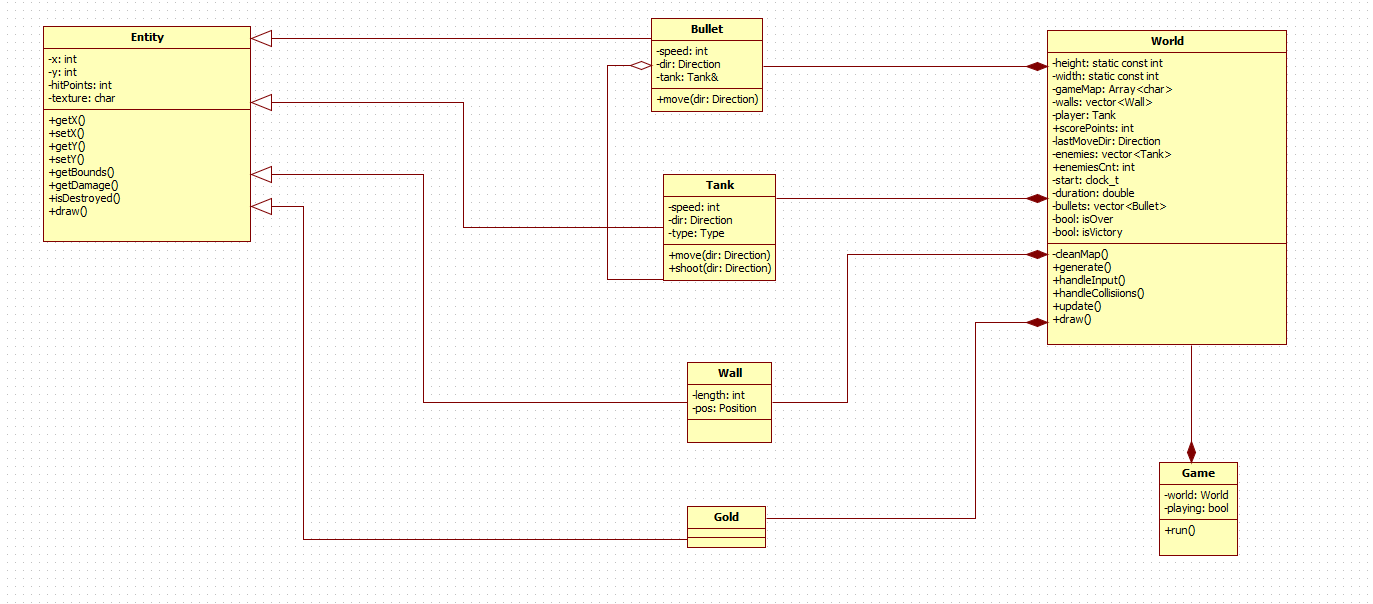
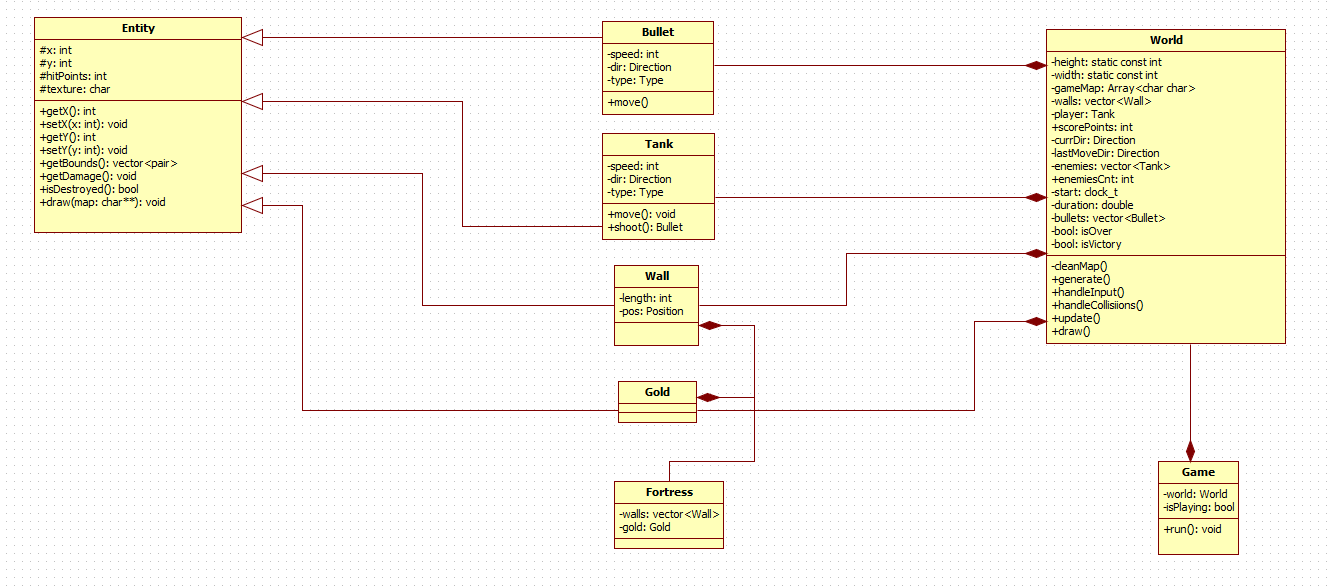
Changed diagrams + implemented entities' classes

diff --git a/src/Tank.cpp b/src/Tank.cpp
@@ -1,0 +1,45 @@
+#include "Tank.h"
+
+Tank::Tank() = default;
+
+Tank::Tank(int x, int y, int hp, char texture, int speed, Direction dir, Type type) :
+        Entity(x, y, hp, texture), m_speed(speed), m_dir(dir), m_type(type) {}
+
+void Tank::move() {
+    switch (m_dir) {
+        case Direction::UP:
+            m_y -= m_speed;
+            break;
+        case Direction::RIGHT:
+            m_x += m_speed;
+            break;
+        case Direction::DOWN:
+            m_y += m_speed;
+            break;
+        case Direction::LEFT:
+            m_x -= m_speed;
+            break;
+        case Direction::STOP:
+            break;
+    }
+}
+
+Bullet &Tank::shoot() {
+    Bullet b (m_x, m_y, BULLET_HP, BULLET_TEXTURE, BULLET_SPEED, m_dir, m_type);
+    b.move();
+    return b;
+}
+
+
+std::vector<std::pair<int, int>> Tank::getBounds() {
+    std::vector<std::pair<int, int>> bounds;
+    bounds.emplace_back(m_x, m_y);
+    return bounds;
+}
+
+void Tank::draw(char **map) {
+    map[m_y][m_x] = m_texture;
+}
+
+
+

diff --git a/src/BattleField.h b/src/BattleField.h
@@ -1,0 +1,47 @@
+#ifndef VERYCRAZYTANKS_BATTLEFIELD_H
+#define VERYCRAZYTANKS_BATTLEFIELD_H
+
+#include <vector>
+#include <ctime>
+#include "Constants.h"
+#include "Wall.h"
+#include "Tank.h"
+
+
+class BattleField {
+public:
+    BattleField();
+
+    void generate();
+    void handleInput();
+    void handleCollisiion();
+    void update();
+    void draw();
+
+private:
+    static const int m_height = MAP_HEIGHT;
+    static const int m_width = MAP_WIDTH;
+    char m_gameMap[m_height][m_width];
+
+    std::vector<Wall> m_walls;
+    Tank m_player;
+    int m_scorePoints;
+
+    Direction m_currDir;
+    Direction m_lastMoveDir;
+
+    std::vector<Tank> m_enemies;
+    int m_enemiesCnt;
+
+    clock_t m_start;
+    double m_duration;
+
+    std::vector<Bullet> m_bullets;
+    bool m_isOver;
+    bool m_isVictory;
+
+    void cleanMap();
+};
+
+
+#endif //VERYCRAZYTANKS_BATTLEFIELD_H

diff --git a/src/Bullet.cpp b/src/Bullet.cpp
@@ -1,0 +1,27 @@
+#include "Bullet.h"
+
+Bullet::Bullet() = default;
+
+Bullet::Bullet(int x, int y, int hp, char texture, int speed, Direction dir, Type type) :
+        Entity(x,y, hp, texture), m_speed(speed), m_dir(dir), m_type(type) {
+}
+
+void Bullet::move() {
+    switch (m_dir) {
+        case Direction::UP:
+            m_y -= m_speed;
+            break;
+        case Direction::RIGHT:
+            m_x += m_speed;
+            break;
+        case Direction::DOWN:
+            m_y += m_speed;
+            break;
+        case Direction::LEFT:
+            m_x -= m_speed;
+            break;
+        case Direction::STOP:
+            break;
+    }
+}
+

diff --git a/src/Entity.h b/src/Entity.h
@@ -1,0 +1,36 @@
+#ifndef VERYCRAZYTANKS_ENTITY_H
+#define VERYCRAZYTANKS_ENTITY_H
+
+
+#include <utility>
+#include <vector>
+
+class Entity {
+public:
+    Entity();
+    Entity(int x, int y, int hp, char texture);
+
+    const int &getX();
+
+    void setX(int x);
+
+    const int &getY();
+
+    void setY(int y);
+
+    virtual std::vector<std::pair<int, int>> getBounds() = 0;
+
+    void getDamage();
+
+    bool isDestroyed();
+
+    virtual void draw(char **map) = 0;
+protected:
+    int m_x;
+    int m_y;
+    int m_hitPoints;
+    char m_texture;
+};
+
+
+#endif //VERYCRAZYTANKS_ENTITY_H

diff --git a/src/Tank.h b/src/Tank.h
@@ -1,0 +1,30 @@
+#ifndef VERYCRAZYTANKS_TANK_H
+#define VERYCRAZYTANKS_TANK_H
+
+#include "Entity.h"
+#include "Constants.h"
+#include "Bullet.h"
+
+
+class Tank : public Entity {
+public:
+    Tank();
+
+    Tank(int x, int y, int hp, char texture, int speed, Direction dir, Type type);
+
+    void move();
+
+    Bullet &shoot();
+
+    std::vector<std::pair<int, int>> getBounds() override;
+
+    void draw(char **map) override;
+
+private:
+    int m_speed;
+    Direction m_dir;
+    Type m_type;
+};
+
+
+#endif //VERYCRAZYTANKS_TANK_H

diff --git a/src/Entity.cpp b/src/Entity.cpp
@@ -1,0 +1,31 @@
+#include "Entity.h"
+
+Entity::Entity() {}
+
+Entity::Entity(int x, int y, int hp, char texture) : m_x(x), m_y(y), m_hitPoints(hp), m_texture(texture){}
+
+const int &Entity::getX() {
+    return m_x;
+}
+
+void Entity::setX(int x) {
+    m_x = x;
+}
+
+const int &Entity::getY() {
+    return m_y;
+}
+
+void Entity::setY(int y) {
+    m_y = y;
+}
+
+void Entity::getDamage() {
+    m_hitPoints--;
+}
+
+bool Entity::isDestroyed() {
+    return m_hitPoints <= 0;
+}
+
+

diff --git a/src/Constants.h b/src/Constants.h
@@ -1,0 +1,17 @@
+#ifndef VERYCRAZYTANKS_CONSTANTS_H
+#define VERYCRAZYTANKS_CONSTANTS_H
+
+enum class Direction {STOP = 0, UP, RIGHT, DOWN, LEFT};
+enum class Type {PLAYER, ENEMY};
+enum class Position {HORIZONTAL, VERTICAL};
+
+//Bullet
+char BULLET_TEXTURE = '*';
+int BULLET_SPEED = 1;
+int BULLET_HP = 1;
+
+//BattleField
+int MAP_WIDTH = 100;
+int MAP_HEIGHT = 100;
+
+#endif //VERYCRAZYTANKS_CONSTANTS_H

diff --git a/src/Bullet.h b/src/Bullet.h
@@ -1,0 +1,23 @@
+#ifndef VERYCRAZYTANKS_BULLET_H
+#define VERYCRAZYTANKS_BULLET_H
+
+#include "Constants.h"
+#include "Entity.h"
+
+
+class Bullet : public Entity {
+public:
+    Bullet();
+
+    Bullet(int x, int y, int hp, char texture, int speed, Direction dir, Type type);
+
+    void move();
+
+private:
+    int m_speed;
+    Direction m_dir;
+    Type m_type;
+};
+
+
+#endif //VERYCRAZYTANKS_BULLET_H

diff --git a/src/Wall.h b/src/Wall.h
@@ -1,0 +1,18 @@
+#ifndef VERYCRAZYTANKS_WALL_H
+#define VERYCRAZYTANKS_WALL_H
+
+
+#include "Constants.h"
+#include "Entity.h"
+
+class Wall : public Entity {
+public:
+    Wall();
+    Wall(int x, int y, int hp, char texture, int length, Position pos);
+private:
+    int m_length;
+    Position m_pos;
+};
+
+
+#endif //VERYCRAZYTANKS_WALL_H

diff --git a/src/BattleField.cpp b/src/BattleField.cpp
@@ -1,0 +1,29 @@
+#include "BattleField.h"
+
+BattleField::BattleField() {
+
+}
+
+void BattleField::generate() {
+
+}
+
+void BattleField::handleInput() {
+
+}
+
+void BattleField::handleCollisiion() {
+
+}
+
+void BattleField::update() {
+
+}
+
+void BattleField::draw() {
+
+}
+
+void BattleField::cleanMap() {
+
+}

diff --git a/src/Gold.h b/src/Gold.h
@@ -1,0 +1,13 @@
+#ifndef VERYCRAZYTANKS_GOLD_H
+#define VERYCRAZYTANKS_GOLD_H
+
+
+#include "Entity.h"
+
+class Gold : Entity {
+    Gold();
+    Gold(int x, int y, int hp, char texture);
+};
+
+
+#endif //VERYCRAZYTANKS_GOLD_H

diff --git a/src/Wall.cpp b/src/Wall.cpp
@@ -1,0 +1,8 @@
+#include "Wall.h"
+
+Wall::Wall() = default;
+
+Wall::Wall(int x, int y, int hp, char texture, int length, Position pos) :
+        Entity(x, y, hp, texture), m_length, m_pos(pos) {
+
+}
